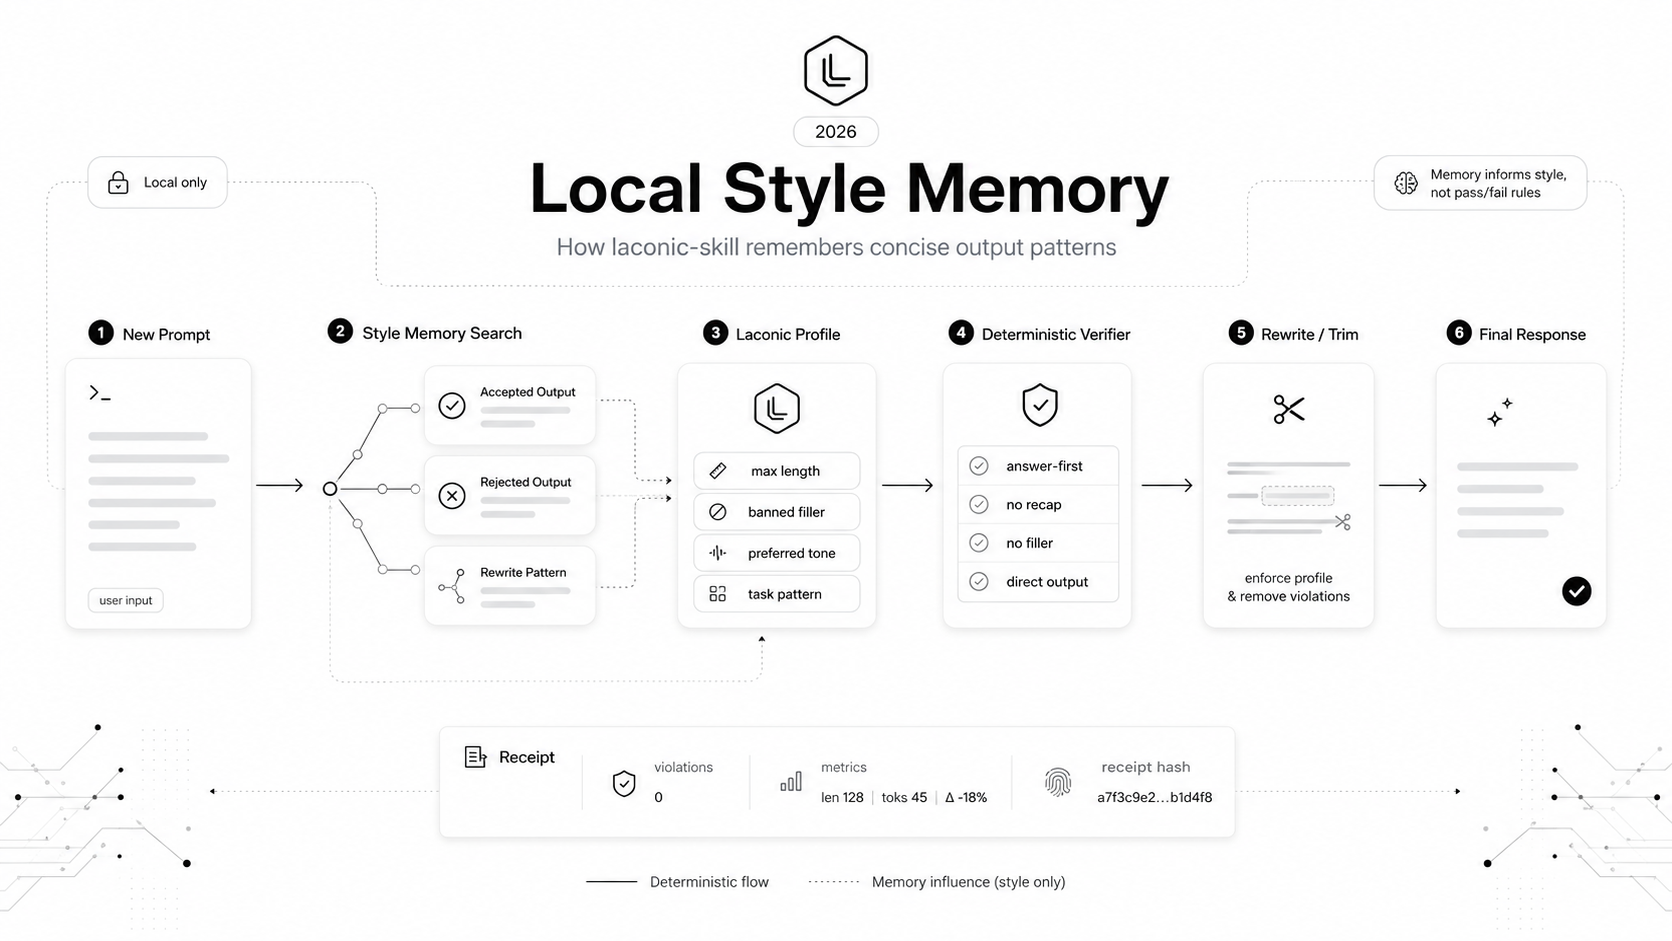
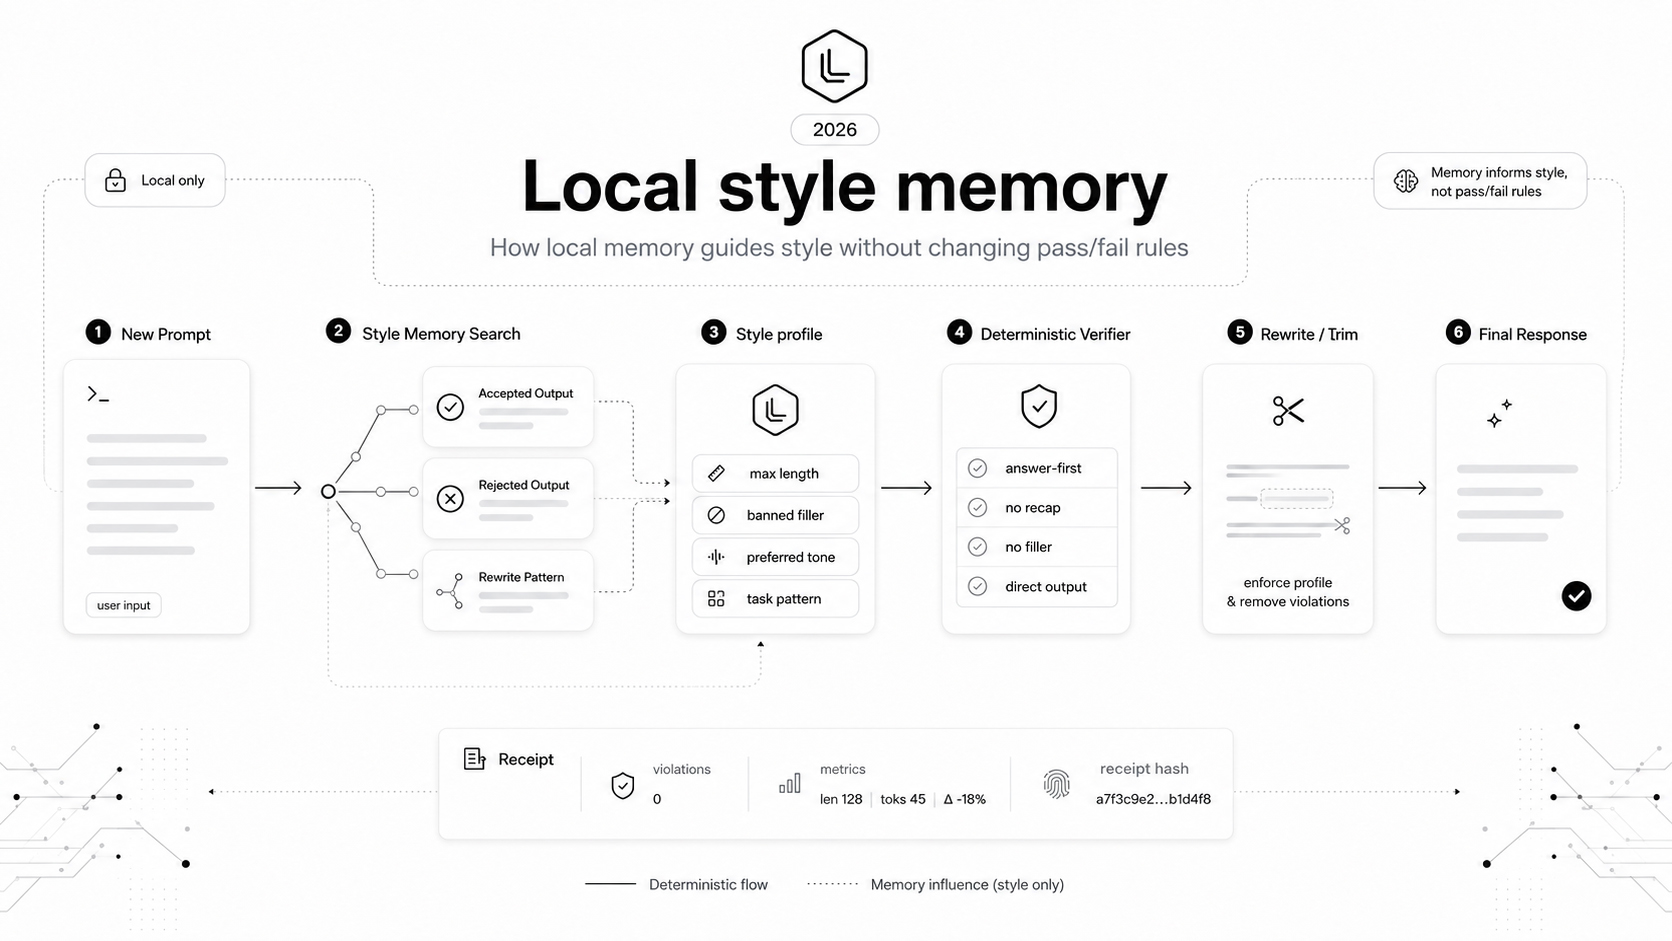
Tighten README and update images

diff --git a/README.md b/README.md
@@ -4,10 +4,11 @@
 
 AI agents write too much.
 
-laconic-skill checks AI output after it is written. It can pass, fail, rewrite, and emit receipts for concise-output checks without calling a model during verification.
+laconic-skill checks AI output before humans have to read it. It can pass, fail, rewrite, and emit receipts for concise-output checks without calling a model during verification.
 
-The model drafts.
-The runtime verifies.
+The model drafts. The runtime verifies.
+
+laconic-skill is a deterministic verifier for concise AI output. It runs as a local CLI, emits receipts, and validates as a Claude Code plugin.
 
 Use it for:
 
@@ -17,13 +18,13 @@ Use it for:
 - documentation drafts
 - any workflow where verbose AI output wastes reviewer time
 
-## Why This Exists
+## Why this exists
 
 Prompting can ask an AI to be brief. It cannot prove the output stayed brief.
 
 laconic-skill runs outside the model. It applies deterministic rules, returns pass/fail results, and can emit a JSON receipt for the check.
 
-## 60-Second Proof
+## Try it in 60 seconds
 
 Install and build once:
 
@@ -56,7 +57,7 @@ Emit a receipt from stdin:
 cat output.txt | node dist/cli.js check - --receipt
 ```
 
-## Proof
+## Verified proof
 
 - `50` corpus files: the benchmark runs against realistic verbose AI outputs in `benchmarks/corpus/*.txt`.
 - `63.477%` average character reduction: the benchmark reports average shrinkage after deterministic rewrite.
@@ -65,12 +66,11 @@ cat output.txt | node dist/cli.js check - --receipt
 - Deterministic across `5` runs: the benchmark repeats and compares stable output signatures.
 - No model calls during verification: the verifier runs locally and deterministically; `package.json` includes no model SDK dependency.
 - Receipt hash determinism: tests verify the same input/output/config produces the same receipt hash.
+- Claude Code plugin validation: the plugin manifest passed `claude plugin validate .`.
 
-## What This Is
+## What it does
 
 A local verification runtime for concise AI output.
-
-## What It Does
 
 - checks output
 - rewrites verbose output
@@ -99,7 +99,7 @@ Core pieces:
 - `src/pipeline.ts` connects draft text, verification, optional rewrite, placeholder correctness checks, and receipts.
 - `src/memory/` contains optional local style memory.
 
-## Local Memory Boundary
+## Local memory boundary
 
 ![Local style memory flow](imgs/laconic-skill-arch.png)
 
@@ -117,7 +117,7 @@ Memory-enabled pipeline receipts may include memory metrics so the receipt ident
 - Rewrite before/after: `examples/rewrite-before-after.md`
 - Pipeline receipt: `examples/pipeline-receipt.json`
 
-## Claude Code Plugin
+## Claude Code plugin
 
 Local test:
 
@@ -137,7 +137,7 @@ Validate the plugin:
 claude plugin validate .
 ```
 
-## CLI Usage
+## CLI usage
 
 Check output:
 
